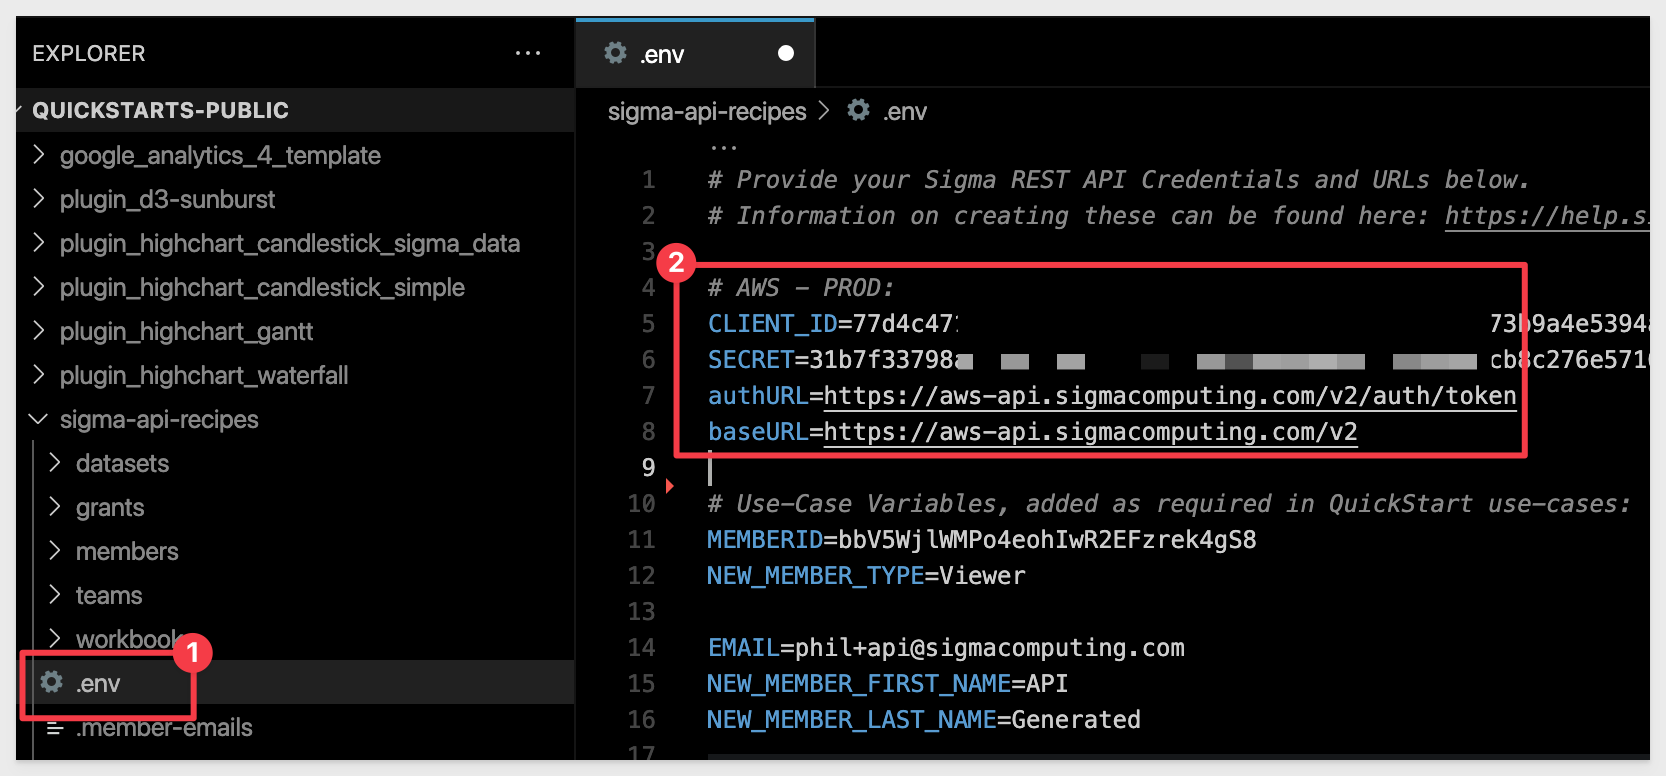
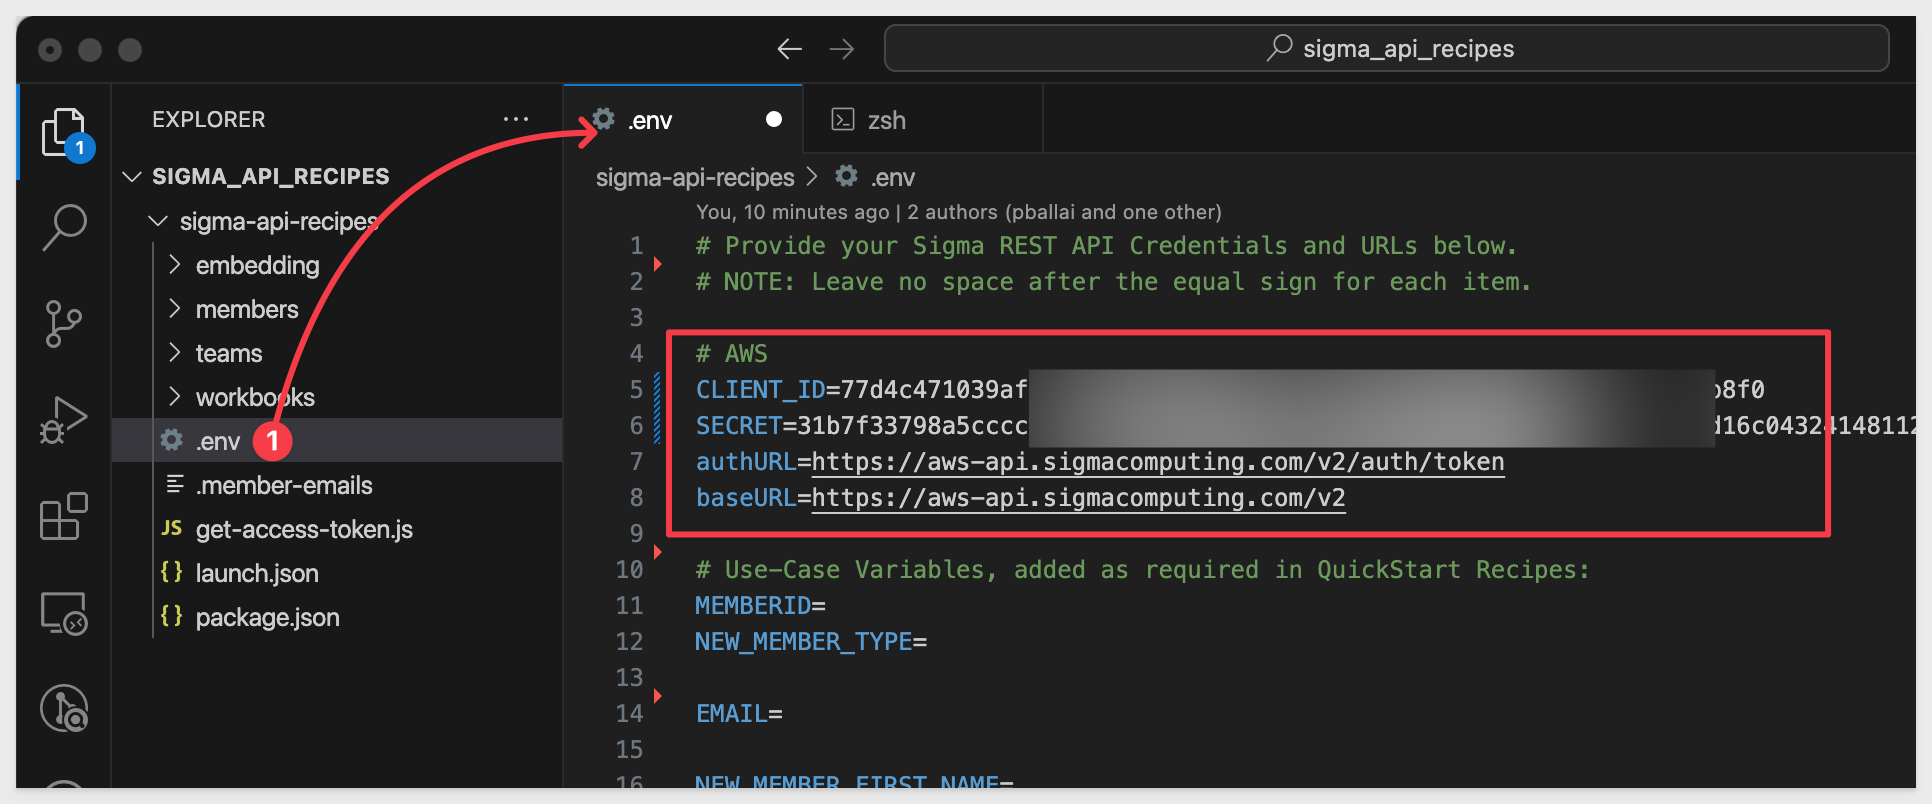
wip

diff --git a/site/sigmaguides/src/administration_api_code_samples/administration_api_code_samples.md b/site/sigmaguides/src/administration_api_code_samples/administration_api_code_samples.md
@@ -17,9 +17,11 @@ This QuickStart is designed to support Sigma's [API Code Samples](https://help.s
 
 The actual code shown is available in Sigma's [quickstart-public git repository](https://github.com/sigmacomputing/quickstarts-public)
 
-All code samples provided here are based on javaScript.
+All code samples provided here are based on JavaScript.
 
-<!-- although [Sigma's Swagger](https://help.sigmacomputing.com/reference/explanation) provides code snippets for all the most common languages, including [curl.](https://curl.se/) -->
+<aside class="postive">
+<strong>IMPORTANT:</strong><br> The methods presented here are not in alphabetical order but do align with the recipes webpage. If you don't see what you are looking for right away, scroll down the QuickStart page.
+</aside>
 
 ### Target Audience
 Developers who are evaluating or working with Sigma's REST API. 
@@ -93,36 +95,51 @@ This should return the version number as below:
 <strong>NOTE:</strong><br> You version number will likely vary from what is shown in the screenshot, based on when you installed Node.
 </aside>
 
-You can leave the Terminal session open for now.
+You can leave the terminal session open for now.
 
-### Project Files
+### Git Repository
 
 To save you time, we've stored all the necessary project files in Git. Simply download them using git clone and explore the recipes that interest you.
 
-To clone the Git repository in VSCode, open the `Command palette`:
+In terminal, navigate to the desired directory where we want to clone the repo folder into.
 
-<img src="assets/apics10.png" width="800"/>
-
-Type `Clo` into the command palette bar and then click `Git: Clone`:
-
-<img src="assets/apics11.png" width="800"/>
-
-Paste this URL and hit enter:
+For example:
 ```code
-https://github.com/sigmacomputing/quickstarts-public.git
+cd {/path/to/your/directory}
 ```
 
-VSCode will prompt for the location to store the files on your computer. Navigate to the `Sigma_QuickStart_Public_Repo` folder and click the `Select as Repository Destination` button.
+Execute the terminal command:
+```code
+git init
+```
 
-<img src="assets/apics12.png" width="800"/>
+Add the remote repository as the origin:
+```code
+git remote add -f origin https://github.com/sigmacomputing/quickstarts-public.git
+```
 
-If prompted to open the cloned repository, click `Open`.
+Enable sparse checkout:
+```code
+git config core.sparseCheckout true
+```
 
-The repository contains other code samples you can explore, but we are interested in the `sigma-api-recipes` folder:
+Specify the folder you want to clone by adding it to the sparse-checkout configuration:
+```code
+echo "sigma-api-recipes" > .git/info/sparse-checkout
+```
 
-<img src="assets/apics13.png" width="500"/>
+At this point, we have run each command and not seen any errors:
 
-Once the project is open, return (or reopen a new) terminal session inside the project. 
+<img src="assets/apics4d.png" width="800"/>
+
+Finally, pull the specified folder from the repository:
+```code
+git pull origin main
+```
+
+We can now see the cloned project folder:
+
+<img src="assets/apics4e.png" width="800"/>
 
 Run the command:
 ```code
@@ -151,12 +168,12 @@ This file keeps our keys out of our scripts and also contains other variables we
 
 Replace the placeholders for `YourClientID` and `YourAPISecret`. The values for auth and baseURL are for Sigma instances hosted in AWS-US. You may need to change these based on where your instance is running. 
 
-<!-- If you are not sure, check the instructions mentioned above or [in the API Swagger.](https://help.sigmacomputing.com/reference/explanation) -->
+For more information on the supported API instances, see [Identify your API request URL.](https://help.sigmacomputing.com/reference/get-started-sigma-api#identify-your-api-request-url)
 
-Save the file.
+`Save` the file.
 
 <aside class="positive">
-<strong>IMPORTANT:</strong><br> The section named "Get Bearer Token Script" is a must read, as proper authentication is required in all use cases. Do that section once you finish this section.
+<strong>IMPORTANT:</strong><br> The next section named "Authentication - REQUIRED" is a must read. Authentication is required in all use cases.
 </aside>
 
 ![Footer](assets/sigma_footer.png)
@@ -1090,6 +1107,177 @@ Press `F5` to run the script with VSCode's debugger.
 The expected response is:
 
 <img src="assets/apics59.png" width="800"/>
+
+![Footer](assets/sigma_footer.png)
+<!-- END OF SECTION-->
+
+## Members: Bulk Deactivate / Delete
+Duration: 20
+
+This section demonstrates the code that was provided on the `API Code Samples` > `Members: Bulk Deactivate / Delete` page, [located here.](https://help.sigmacomputing.com/recipes/members-bulk-deactivate-delete)
+
+<aside class="positive">
+<strong>IMPORTANT:</strong><br> This script will call the get-access-token > getBearerToken function to get a new/refreshed token automatically so there is no need to do anything else, assuming you have completed the section of this QuickStart "Authentication - REQUIRED" and ensured your .env file is configured correctly.
+</aside>
+
+### Description
+The `Members: Bulk Deactivate / Delete` script provides a method to deactivate, reassigning content and optionally deleting one or many members whose names match a pattern specified by `USER_NAME_PATTERN` in the `.env` file
+
+The script first deactivates each user that matches the specified name pattern. During this deactivation, it also reassigns the user’s content to the member specified in `NEW_OWNER_ID.` This ensures that any content the deactivated member owns will not be orphaned, but instead assigned to the new owner.
+
+**Optional Deletion:**
+After deactivation (and reassignment of content), the script checks the `DEACTIVATE_ONLY` flag:
+
+- If `DEACTIVATE_ONLY` is set to `true`, the script stops (after reassigning content) and does not delete the user.
+
+- If `DEACTIVATE_ONLY` is `false`, the script also proceeds to delete the user, who is now already deactivated and has no remaining assigned content.
+
+<aside class="negative">
+<strong>NOTE:</strong><br> Assigning content to a Sigma member who has a lower license type may result in loss of functionality. 
+</aside>
+
+<aside class="positive">
+<strong>WARNING:</strong><br> This script both deactivates and DELETES Sigma users. Great care must be taken when using this and we recommend testing thoroughly prior to any production use.
+</aside>
+
+### Endpoints used
+
+**List Members Endpoint (GET /v2/members):**<br>
+Retrieves a list of all members, allowing for optional filtering, such as including inactive users (includeInactive=true).
+
+**Deactivate Member Endpoint (POST /v2/members/{memberId}/deactivate):**<br>
+Deactivates a specific member account by memberId, making the user inactive but not permanently deleted.
+
+**Delete Member Endpoint (DELETE /v2/members/{memberId}):**<br>
+Permanently deletes a specific member account by memberId, removing it completely from the system.
+
+### Regex
+The `USER_NAME_PATTERN` variable in the `.env` file uses regular expressions (regex) to specify patterns for matching usernames. 
+
+Here are some formatting examples and explanations to help you configure this variable:
+
+**1: Exact Match**
+Matches usernames that exactly match the specified name.
+
+This will only match the username "JohnDoe" exactly, without any variations.
+
+Sample code:
+```code
+USER_NAME_PATTERN=^JohnDoe$
+```
+
+**2: Wildcard Match (Start of Name)**
+Matches any username that starts with a specific string.
+This pattern will match usernames like "API_User1", "API_Test", etc.
+
+Sample code:
+```code
+USER_NAME_PATTERN=^API
+```
+
+**3: Wildcard Match (End of Name)**
+Matches any username that ends with a specific string.
+
+This pattern will match usernames like "SystemAdmin", "JohnAdmin", etc.
+
+Sample code:
+```code
+USER_NAME_PATTERN=Admin$
+```
+
+**4: Contains Match**
+Matches any username that contains a specific string.
+
+This pattern will match usernames like "Embed_User", "API_Embed_Test", "EmbedManager", etc.
+
+Sample code:
+```code
+USER_NAME_PATTERN=Embed
+```
+
+**5: Case-Insensitive Match**
+If you want the search to be case-insensitive, add the i flag at the end of the regex pattern.
+
+This pattern will match "Embed User", "embed user", "EMBED USER", etc.
+
+Sample code:
+```code
+USER_NAME_PATTERN=(?i)^embed user
+```
+
+**6: Multiple Patterns (Using OR)**
+Matches usernames that meet one of multiple patterns.
+
+This pattern will match any username that starts with "API" or is exactly "Embed User".
+
+Sample code:
+```code
+USER_NAME_PATTERN=^(API|Embed User)
+```
+
+**7: Match with Number Ranges**
+Matches usernames with specific numeric patterns.
+
+This pattern will match usernames like "User001", "User123", "User999", etc.
+
+Sample code:
+```code
+USER_NAME_PATTERN=^User[0-9]{3}$
+```
+
+**Anchors:**<br>
+Use ^ to match the start of a name and $ to match the end. Omitting these will allow partial matches within the username.
+
+**Special Characters:**<br>
+Characters like . or * have special meanings in regex (e.g., . matches any character), so escape them with \ if you want them to be literal (e.g., User\.Test matches "User.Test").
+
+**Regex Flags:**<br>
+You can add (?i) at the beginning of the pattern to make it case-insensitive.
+
+### Running the Script
+Open the file `bulk-deactivate-delete-users.js` in the `members` folder:
+
+Each code block is commented to explain what operations are being performed. 
+
+In our case, we have been rather lax in our test Sigma instance, but we can use this script to clean up the `People` page in one step. This is much faster than manually removing members one at at time.
+
+However, lets remove one user only first, to make sure the script performs as expected. 
+
+There is a `Active` member, `Bob Somebody` who was a fake test member:
+
+<img src="assets/apics60.png" width="800"/>
+
+A quick [Sigma user impersonation]() of this member shows they have one workbook called `Bob's Favorite Data`. This is good to know as we can check to make sure it gets reassigned using the `NEW_OWNER_ID` in the .env file. 
+
+<img src="assets/apics61.png" width="800"/>
+
+To make sure that more than one workbook will be reassigned, we made a quick copy of this and named it `Bob's Favorite Data 2`. This will make a more complete test.
+
+Lets now configure `.env` for this member, deactivate them and assign their content to ourself using `memberId`: 
+
+```code
+# bulk-deactivate-delete-users variables
+USER_NAME_PATTERN=Bob Somebody
+NEW_OWNER_ID=
+DEACTIVATE_ONLY=true
+```
+
+Running the script results in `No NEW_OWNER_ID specified in the .env file. Aborting process.` 
+
+This is expected as we did not provide the value for `NEW_OWNER_ID`. Once we do that and rerun we get:
+
+
+
+
+
+
+
+
+
+
+Press `F5` to run the script with VSCode's debugger. 
+
+
 
 ![Footer](assets/sigma_footer.png)
 <!-- END OF SECTION-->
